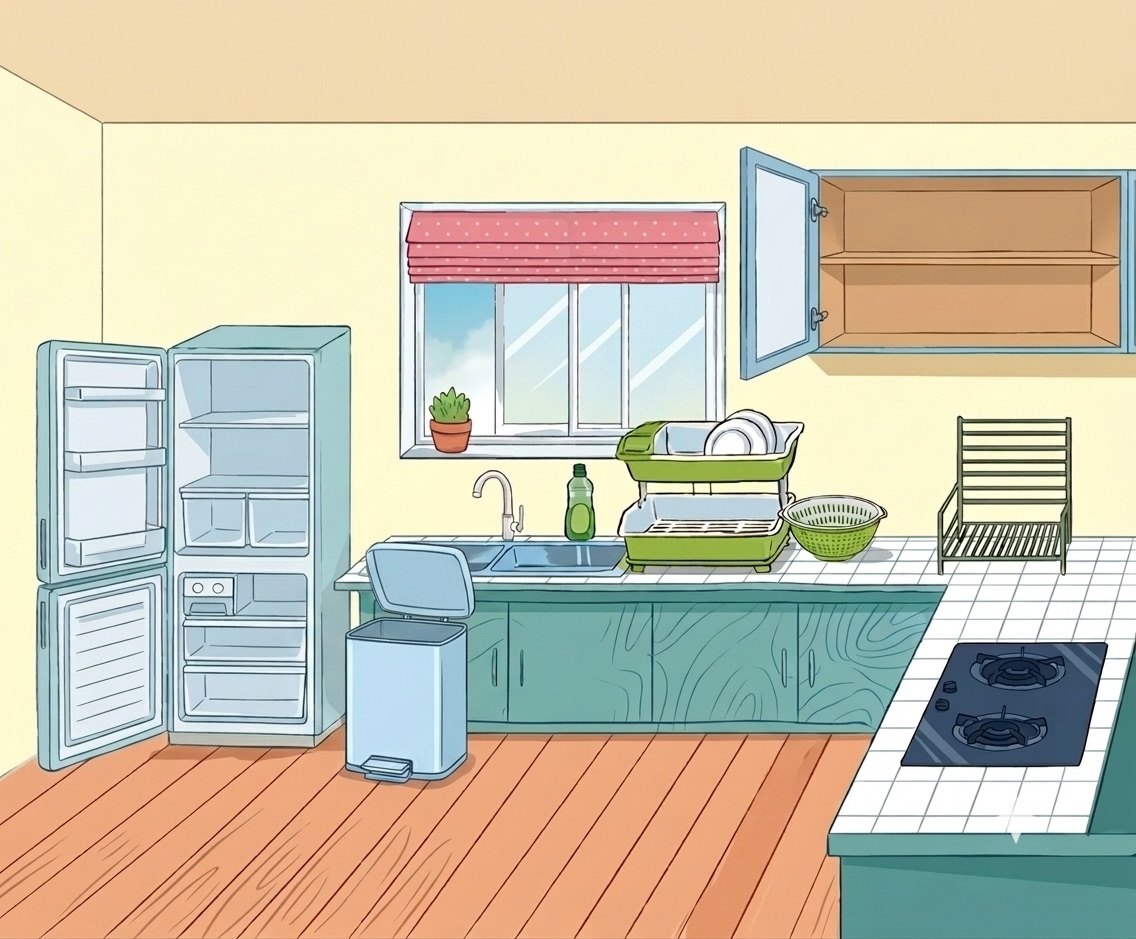
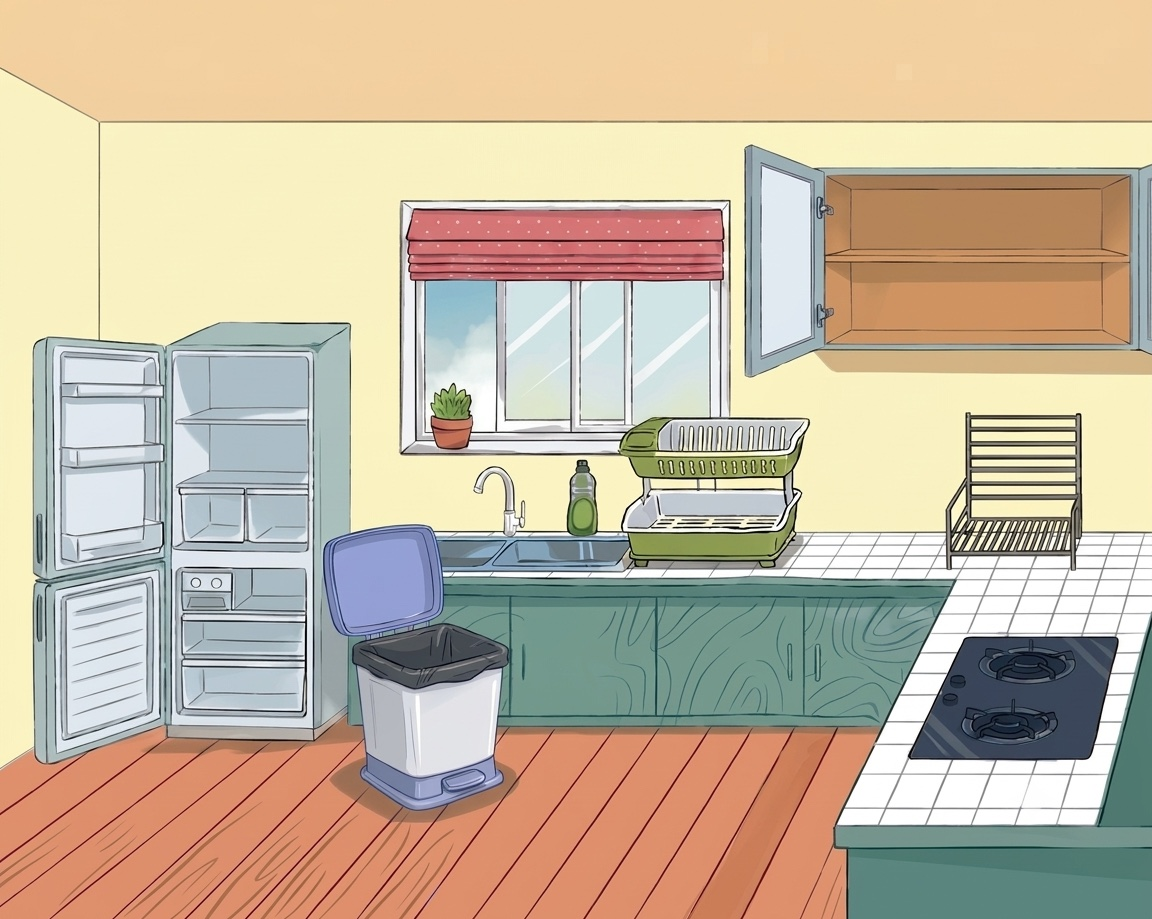
Add the dish rack, and let an item belong in two places
New kitchen art. The fridge, cabinet and spice rack land where they were, the
bin is redrawn larger so its zone grows with it and rubbish now falls at the
bin's mouth instead of hovering above it. The drainer beside the sink is empty
in this version, so it becomes a fifth place to put things.

An item's cat can now be a list, and why, spot and bigBadge can each be split
per place, so the bowl belongs in the drainer or the cabinet, and the oil and
pepper on the spice rack or in the cabinet, each with its own explanation.
That also lets the oil bottle stand tall on the open rack but shrink to fit
the cabinet shelf.

Checked all 9 items against all 5 places - 45 combinations, every verdict and
explanation as expected - and played a full game dropping the two-place items
alternately into each.

diff --git a/js/game.js b/js/game.js
@@ -83,12 +83,21 @@ var items = [
   {id:'thitbo', label:'Thịt bò', cat:'fridge', zoom:1.10, spot:{left:'45%', bottom:'79%'}, why:'Thịt tươi để ngoài sẽ ôi thiu và có vi khuẩn. Cất tủ lạnh mới an toàn.'},
   {id:'bongcai', label:'Bông cải xanh', cat:'fridge', spot:{left:'45%', bottom:'50%'}, why:'Rau xanh để tủ lạnh giữ được màu tươi và chất bổ.'},
 
-  {id:'dauan', label:'Dầu ăn', cat:'spice', bigBadge:true, why:'Dầu ăn để ở kệ gia vị nơi khô ráo, gần bếp cho tiện nấu ăn.'},
-  {id:'tieu', label:'Hũ tiêu', cat:'spice', why:'Tiêu để kệ gia vị nơi khô thoáng thì không bị mốc.'},
+  {id:'dauan', label:'Dầu ăn', cat:['spice','cabinet'], bigBadge:{spice:true},
+   spot:{cabinet:{left:'40%', bottom:'8%'}},
+   why:{spice:'Dầu ăn để ở kệ gia vị nơi khô ráo, gần bếp cho tiện nấu ăn.',
+        cabinet:'Cất vào kệ tủ cũng đúng, vì trong tủ khô ráo và tránh được nắng.'}},
+  {id:'tieu', label:'Hũ tiêu', cat:['spice','cabinet'],
+   spot:{cabinet:{left:'62%', bottom:'8%'}},
+   why:{spice:'Tiêu để kệ gia vị nơi khô thoáng thì không bị mốc.',
+        cabinet:'Cất vào kệ tủ cũng đúng, chỗ kín và khô thì tiêu giữ được mùi thơm.'}},
 
   {id:'migoi', label:'Mì gói', cat:'cabinet', spot:{left:'6%',  bottom:'8%'}, why:'Mì gói để trong tủ nơi khô ráo. Gặp ẩm mì sẽ mềm và mốc.'},
   {id:'caphe', label:'Hộp cà phê', cat:'cabinet', an:true, spot:{left:'25%', bottom:'8%'}, why:'Hộp cà phê cất trong tủ kín, nơi khô ráo cho khỏi bay mùi thơm.'},
-  {id:'chen', label:'Chén', cat:'cabinet', spot:{left:'6%',  bottom:'49%'}, why:'Chén nào ít dùng thì mình rửa sạch và cất vào tủ nhé, như vậy sẽ hạn chế bám bụi và ruồi đậu vào.'},
+  {id:'chen', label:'Chén', cat:['dishrack','cabinet'],
+   spot:{dishrack:{left:'24%', bottom:'6%'}, cabinet:{left:'6%', bottom:'49%'}},
+   why:{dishrack:'Chén vừa rửa xong thì úp lên kệ chén cho ráo nước đã.',
+        cabinet:'Chén nào ít dùng thì mình rửa sạch và cất vào tủ nhé, như vậy sẽ hạn chế bám bụi và ruồi đậu vào.'}},
 
   {id:'racgiay', label:'Giấy bẩn', cat:'trash', why:'Giấy bẩn có nhiều vi khuẩn, phải bỏ ngay vào thùng rác.'},
   {id:'vochuoi', label:'Vỏ chuối', cat:'trash', why:'Vỏ chuối là rác. Để lâu sẽ thu hút ruồi và có mùi hôi.'}
@@ -99,7 +108,27 @@ var items = [
    vừa đúng 3 hàng đầy, thẻ to nhất và không thừa chỗ trống. */
 items = items.filter(function(mon){ return !mon.an; });
 
-var CAT_NAME = {fridge:'Tủ lạnh', spice:'Kệ gia vị', cabinet:'Kệ tủ', trash:'Sọt rác'};
+var CAT_NAME = {fridge:'Tủ lạnh', spice:'Kệ gia vị', cabinet:'Kệ tủ',
+                trash:'Sọt rác', dishrack:'Kệ chén'};
+
+/* Một món có thể cất đúng ở nhiều nơi: viết cat:['spice','cabinet'] là cả hai
+   chỗ đều được tính đúng. Ba hàm dưới đây lo việc đó, để phần còn lại của trò
+   chơi cứ hỏi "món này với chỗ này thì sao" mà không phải bận tâm một hay hai
+   chỗ. Các món cũ vẫn viết cat:'fridge' như thường. */
+function catList(item){
+  return item && item.cat ? (item.cat.push ? item.cat : [item.cat]) : [];
+}
+function catDung(item, cat){
+  return catList(item).indexOf(cat) >= 0;
+}
+/* spot và why viết được hai kiểu: một giá trị dùng chung cho mọi nơi, hoặc
+   tách riêng từng nơi, ví dụ why:{spice:'...', cabinet:'...'} */
+function theoNoi(giaTri, cat, mac){
+  if(giaTri === undefined || giaTri === null) return mac;
+  if(typeof giaTri !== 'object') return giaTri;      /* một giá trị dùng chung */
+  if(giaTri[cat] !== undefined) return giaTri[cat];
+  return giaTri.left !== undefined ? giaTri : mac;   /* spot chung cho mọi nơi */
+}
 
 /* Mở trang kèm ?test=true thì chỉ giữ lại một món ngẫu nhiên, để chạy thử nhanh
    trọn luồng chơi (quay số, hộp thoại, màn chiến thắng) mà không phải kéo hết. */
@@ -112,7 +141,7 @@ if(/[?&]test=(true|1)(&|$)/i.test(location.search)){
 var XEM_KET_QUA = /[?&]result=(true|1)(&|$)/i.test(location.search);
 
 var sceneCol = document.querySelector('.scene-col');
-var BG_W = 1136, BG_H = 939;
+var BG_W = 1152, BG_H = 919;
 function layoutScene(){
   var stage = document.querySelector('.stage');
   var inner = stage.clientWidth - 36 - 18;   // padding hai bên + khoảng cách giữa 2 cột
@@ -583,7 +612,7 @@ function closeDialog(){
 /* hộp thoại chỉ tự tắt theo thời gian, bấm vào đâu cũng không tắt,
    để học sinh không lỡ tay làm mất câu giải thích */
 
-function showResultDialog(item, ok, wrongCat, after){
+function showResultDialog(item, ok, noiTha, after){
   if(!dialogEl){ if(after) after(); return; }
   if(dialogTimer) clearTimeout(dialogTimer);
   dialogAfter = after;
@@ -598,8 +627,8 @@ function showResultDialog(item, ok, wrongCat, after){
   if(dialogGirl) dialogGirl.src = ok ? GIRL_OK : GIRL_NO;
   dialogImg.style.transform = item.zoom ? 'scale(' + item.zoom + ')' : '';
   dialogText.textContent = ok
-    ? item.why
-    : item.label + ' không cất ở ' + (CAT_NAME[wrongCat] || 'chỗ này') + ' đâu. Em thử nghĩ lại xem nên cất ở đâu nhé!';
+    ? theoNoi(item.why, noiTha, '')
+    : item.label + ' không cất ở ' + (CAT_NAME[noiTha] || 'chỗ này') + ' đâu. Em thử nghĩ lại xem nên cất ở đâu nhé!';
 
   dialogEl.classList.add('show');
 
@@ -781,7 +810,7 @@ function tryPlace(id, zoneEl){
   var cardEl = document.getElementById('card-' + id);
   var cat = zoneEl.dataset.cat;
 
-  var ok = (item.cat === cat);
+  var ok = catDung(item, cat);
   /* ghi kết quả TRƯỚC khi cất món, để lượt cuối cùng kịp vào bảng tổng kết */
   recordResult(ok);
 
@@ -790,11 +819,12 @@ function tryPlace(id, zoneEl){
     zoneEl.classList.add('correct-flash');
     setTimeout(function(){ zoneEl.classList.remove('correct-flash'); }, 500);
     var badge = document.createElement('div');
-    badge.className = item.bigBadge ? 'placed-badge big' : 'placed-badge';
-    if(item.spot){                      /* món có chỗ đứng riêng trong ngăn */
+    badge.className = theoNoi(item.bigBadge, cat, false) ? 'placed-badge big' : 'placed-badge';
+    var cho = theoNoi(item.spot, cat, null);
+    if(cho){                            /* món có chỗ đứng riêng trong ngăn */
       badge.style.position = 'absolute';
-      badge.style.left = item.spot.left;
-      badge.style.bottom = item.spot.bottom;
+      badge.style.left = cho.left;
+      badge.style.bottom = cho.bottom;
     }
     badge.innerHTML = '<img src="' + iconSrc(item.id) + '" alt="">';
     zoneEl.querySelector('.placed-badges').appendChild(badge);

diff --git a/css/style.css b/css/style.css
@@ -49,6 +49,11 @@
   .placed-badges{ overflow:hidden; }
   /* sọt rác hẹp nên đẩy nhãn sang trái cho nằm gọn trên thùng rác */
   .dropzone.trash .zone-label{ margin-left:-16%; }
+  /* rác rơi đúng vào miệng thùng chứ không lơ lửng phía trên */
+  .dropzone.trash .placed-badges{
+    position:absolute; top:41%; left:6%; right:6%; margin-top:0;
+    justify-content:center;
+  }
   .dropzone .zone-label{
     display:inline-block;
     font-weight:800; font-size:29px; color:var(--white);
@@ -63,6 +68,8 @@
   .dropzone.spice .zone-label{ background:#E09A1B; }
   .dropzone.cabinet{ background:rgba(232,131,122,0.14); }
   .dropzone.cabinet .zone-label{ background:#E0837A; }
+  .dropzone.dishrack{ background:rgba(111,168,63,0.16); }
+  .dropzone.dishrack .zone-label{ background:#5F9636; }
 
   .dropzone.hover{ border-color:var(--sun); background-color:rgba(255,200,69,0.34); }
   .dropzone.correct-flash{ border-color:#3FAE6A; background-color:rgba(63,174,106,0.38); }
@@ -74,11 +81,14 @@
   .dropzone.cabinet .placed-badges{
     position:absolute; inset:0; margin:0; display:block;
   }
-  /* kệ gia vị: hạ đồ xuống cho đứng trên mặt kệ dưới */
-  .dropzone.spice .placed-badges{
+  /* kệ gia vị và kệ chén: hạ đồ xuống cho đứng trên mặt kệ dưới */
+  .dropzone.spice .placed-badges,
+  .dropzone.dishrack .placed-badges{
     position:absolute; bottom:7%; left:4%; right:4%; margin-top:0;
     align-items:flex-end;
   }
+  /* kệ chén hẹp nên kéo nhãn sang trái cho khỏi đè lên kệ gia vị */
+  .dropzone.dishrack .zone-label{ margin-left:-6%; }
   .placed-badge{
     background:rgba(255,255,255,0.95); border-radius:11px; padding:3px;
     box-shadow:0 2px 6px rgba(0,0,0,0.22);

diff --git a/index.html b/index.html
@@ -17,7 +17,7 @@
         <span class="zone-label">Tủ lạnh</span>
         <div class="placed-badges"></div>
       </div>
-      <div class="dropzone trash" data-cat="trash" style="left:30.5%; top:57%; width:11.5%; height:25.5%;">
+      <div class="dropzone trash" data-cat="trash" style="left:29%; top:58%; width:15.5%; height:30%;">
         <span class="zone-label">Sọt rác</span>
         <div class="placed-badges"></div>
       </div>
@@ -27,6 +27,10 @@
       </div>
       <div class="dropzone spice" data-cat="spice" style="left:81.5%; top:44%; width:14.5%; height:17.5%;">
         <span class="zone-label">Kệ gia vị</span>
+        <div class="placed-badges"></div>
+      </div>
+      <div class="dropzone dishrack" data-cat="dishrack" style="left:53.5%; top:45.5%; width:16.5%; height:16%;">
+        <span class="zone-label">Kệ chén</span>
         <div class="placed-badges"></div>
       </div>
     </div>

diff --git a/js/students.js b/js/students.js
@@ -15,7 +15,7 @@ var students = [
   {file:'IMG_5324.jpg', name:'Thiện Nhân'},
   {file:'IMG_5325.jpg', name:'Phúc Thịnh'},
   {file:'IMG_5326.jpg', name:'Ngọc Tâm'},
-  {file:'IMG_5327.jpg', name:'Hiếu Vy'},
+  {file:'IMG_5327.jpg', name:'Hiểu Vy'},
   {file:'IMG_5328.jpg', name:'Gia Phú'},
   {file:'IMG_5329.jpg', name:'Nhật Minh'},
   {file:'IMG_5330.jpg', name:'Bảo Hân'},
